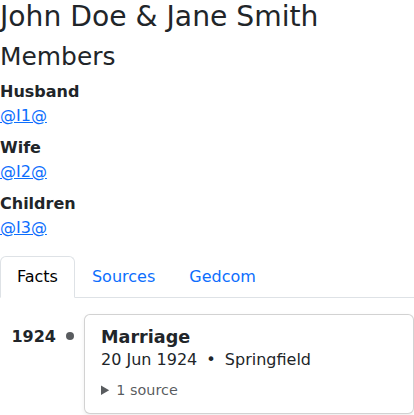
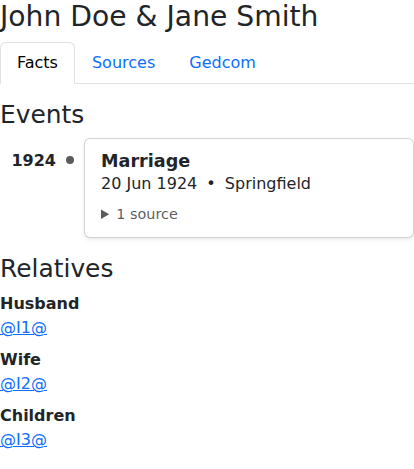
Present family relatives alongside facts, like the individual page (#394)
* Present family relatives alongside facts, like the individual page

Move the family page's husband/wife/children list out of the always-visible
header and into the Facts tab, displayed next to the events timeline in a
two-column layout — mirroring how IndividualFactsComponent pairs
EventsTimelineComponent with IndividualRelativesComponent.

Adds FamilyRelativesComponent (parallel to IndividualRelativesComponent) to
render the family's relatives via IndividualLinkComponent.

Claude-Session: https://claude.ai/code/session_018NpCa9V9Yz416V59FAqwH2

* Fix prettier formatting

Claude-Session: https://claude.ai/code/session_018NpCa9V9Yz416V59FAqwH2

---------

diff --git a/src/app/family/family-facts.component.spec.ts b/src/app/family/family-facts.component.spec.ts
@@ -7,6 +7,8 @@ import { page } from "vitest/browser";
 import { newGedcomDatabase } from "../../gedcom/gedcomDatabase";
 import { newGedcomFact } from "../../gedcom/gedcomFact";
 import { newGedcomFamily } from "../../gedcom/gedcomFamily";
+import { newGedcomIndividual } from "../../gedcom/gedcomIndividual";
+import { newGedcomName } from "../../gedcom/gedcomName";
 import { FamilyFactsComponent } from "./family-facts.component";
 
 describe("FamilyFactsComponent", () => {
@@ -22,6 +24,18 @@ describe("FamilyFactsComponent", () => {
           "ancestryDatabase",
           signal(
             newGedcomDatabase({
+              individuals: {
+                "@I1@": newGedcomIndividual({
+                  xref: "@I1@",
+                  names: [newGedcomName({ givenName: "John", surname: "Doe" })],
+                }),
+                "@I2@": newGedcomIndividual({
+                  xref: "@I2@",
+                  names: [
+                    newGedcomName({ givenName: "Jane", surname: "Smith" }),
+                  ],
+                }),
+              },
               families: {
                 "@F1@": newGedcomFamily({
                   xref: "@F1@",
@@ -59,5 +73,12 @@ describe("FamilyFactsComponent", () => {
 
   it("matches screenshot", async () => {
     await expect(page.elementLocator(element)).toMatchScreenshot();
+  });
+
+  it("should render events and relatives sections", () => {
+    const headings = Array.from(element.querySelectorAll("h2")).map(
+      (h) => h.textContent,
+    );
+    expect(headings).toEqual(["Events", "Relatives"]);
   });
 });

diff --git a/src/app/family/family-relatives.component.spec.ts b/src/app/family/family-relatives.component.spec.ts
@@ -1,0 +1,31 @@
+import { inputBinding, signal } from "@angular/core";
+import type { ComponentFixture } from "@angular/core/testing";
+import { provideRouter } from "@angular/router";
+import { render } from "@testing-library/angular/zoneless";
+import { beforeEach, describe, expect, it } from "vitest";
+import { newGedcomDatabase } from "../../gedcom/gedcomDatabase";
+import { newGedcomFamily } from "../../gedcom/gedcomFamily";
+import { FamilyRelativesComponent } from "./family-relatives.component";
+
+describe("FamilyRelativesComponent", () => {
+  let component: FamilyRelativesComponent;
+  let fixture: ComponentFixture<FamilyRelativesComponent>;
+
+  beforeEach(async () => {
+    const renderResult = await render(FamilyRelativesComponent, {
+      providers: [provideRouter([])],
+      bindings: [
+        inputBinding("ancestryDatabase", signal(newGedcomDatabase())),
+        inputBinding("family", signal(newGedcomFamily({ xref: "@F1@" }))),
+      ],
+      waitForStableOnRender: true,
+    });
+
+    fixture = renderResult.fixture;
+    component = fixture.componentInstance;
+  });
+
+  it("should create", () => {
+    expect(component).toBeTruthy();
+  });
+});

diff --git a/src/app/family/family-relatives.component.ts b/src/app/family/family-relatives.component.ts
@@ -1,0 +1,31 @@
+import { Component, computed, input } from "@angular/core";
+import type { GedcomDatabase } from "../../gedcom/gedcomDatabase";
+import type { GedcomFamily } from "../../gedcom/gedcomFamily";
+import { IndividualLinkComponent } from "../individual-link/individual-link.component";
+
+@Component({
+  selector: "app-family-relatives",
+  imports: [IndividualLinkComponent],
+  templateUrl: "./family-relatives.component.html",
+  styleUrl: "./family.component.css",
+})
+export class FamilyRelativesComponent {
+  readonly ancestryDatabase = input.required<GedcomDatabase>();
+  readonly family = input.required<GedcomFamily>();
+
+  readonly vm = computed(() => {
+    const ancestry = this.ancestryDatabase();
+    const family = this.family();
+
+    return {
+      husband:
+        family.husbandXref ?
+          ancestry.individuals[family.husbandXref]
+        : undefined,
+      wife: family.wifeXref ? ancestry.individuals[family.wifeXref] : undefined,
+      children: family.childXrefs
+        .map((childXref) => ancestry.individuals[childXref])
+        .filter((child) => child !== undefined),
+    };
+  });
+}

diff --git a/src/app/family/family.component.html b/src/app/family/family.component.html
@@ -1,28 +1,6 @@
 @if (vm(); as vm) {
   <h1>{{ vm.title }}</h1>
 
-  <h2>Members</h2>
-  <dl>
-    <dt>Husband</dt>
-    @if (vm.family.husbandXref) {
-      <dd><app-individual-link [xref]="vm.family.husbandXref" /></dd>
-    } @else {
-      <dd>None</dd>
-    }
-    <dt>Wife</dt>
-    @if (vm.family.wifeXref) {
-      <dd><app-individual-link [xref]="vm.family.wifeXref" /></dd>
-    } @else {
-      <dd>None</dd>
-    }
-    <dt>Children</dt>
-    @for (childXref of vm.family.childXrefs; track childXref) {
-      <dd><app-individual-link [xref]="childXref" /></dd>
-    } @empty {
-      <dd>None</dd>
-    }
-  </dl>
-
   <ul class="nav nav-tabs mb-3" role="tablist">
     <li class="nav-item" role="presentation">
       <a class="nav-link" routerLink="facts" routerLinkActive="active">

diff --git a/src/app/family/family.component.ts b/src/app/family/family.component.ts
@@ -2,11 +2,10 @@ import { Component, computed, input } from "@angular/core";
 import { RouterModule } from "@angular/router";
 import type { GedcomDatabase } from "../../gedcom/gedcomDatabase";
 import { fullname } from "../../gedcom/gedcomIndividual";
-import { IndividualLinkComponent } from "../individual-link/individual-link.component";
 
 @Component({
   selector: "app-family",
-  imports: [RouterModule, IndividualLinkComponent],
+  imports: [RouterModule],
   templateUrl: "./family.component.html",
   styleUrl: "./family.component.css",
 })
@@ -33,7 +32,6 @@ export class FamilyComponent {
 
     return {
       title,
-      family,
     };
   });
 }

diff --git a/src/app/family/family-relatives.component.html b/src/app/family/family-relatives.component.html
@@ -1,0 +1,24 @@
+@if (vm(); as vm) {
+  <dl>
+    <dt>Husband</dt>
+    @if (vm.husband) {
+      <dd>
+        <app-individual-link [xref]="vm.husband.xref"></app-individual-link>
+      </dd>
+    } @else {
+      <dd>None</dd>
+    }
+    <dt>Wife</dt>
+    @if (vm.wife) {
+      <dd><app-individual-link [xref]="vm.wife.xref"></app-individual-link></dd>
+    } @else {
+      <dd>None</dd>
+    }
+    <dt>Children</dt>
+    @for (child of vm.children; track child.xref) {
+      <dd><app-individual-link [xref]="child.xref"></app-individual-link></dd>
+    } @empty {
+      <dd>None</dd>
+    }
+  </dl>
+}

diff --git a/src/app/family/family-facts.component.ts b/src/app/family/family-facts.component.ts
@@ -4,10 +4,11 @@ import {
   EventsTimelineComponent,
   type TimelineEvent,
 } from "../events-timeline/events-timeline.component";
+import { FamilyRelativesComponent } from "./family-relatives.component";
 
 @Component({
   selector: "app-family-facts",
-  imports: [EventsTimelineComponent],
+  imports: [EventsTimelineComponent, FamilyRelativesComponent],
   templateUrl: "./family-facts.component.html",
   styleUrl: "./family.component.css",
 })
@@ -26,6 +27,6 @@ export class FamilyFactsComponent {
       owner: "family",
     }));
 
-    return { events };
+    return { family, events };
   });
 }

diff --git a/src/app/family/family-facts.component.html b/src/app/family/family-facts.component.html
@@ -1,3 +1,16 @@
 @if (vm(); as vm) {
-  <app-events-timeline [events]="vm.events" />
+  <div class="row">
+    <div class="col-md-6">
+      <h2>Events</h2>
+      <app-events-timeline [events]="vm.events" />
+    </div>
+
+    <div class="col-md-6">
+      <h2>Relatives</h2>
+      <app-family-relatives
+        [ancestryDatabase]="ancestryDatabase()"
+        [family]="vm.family"
+      />
+    </div>
+  </div>
 }
